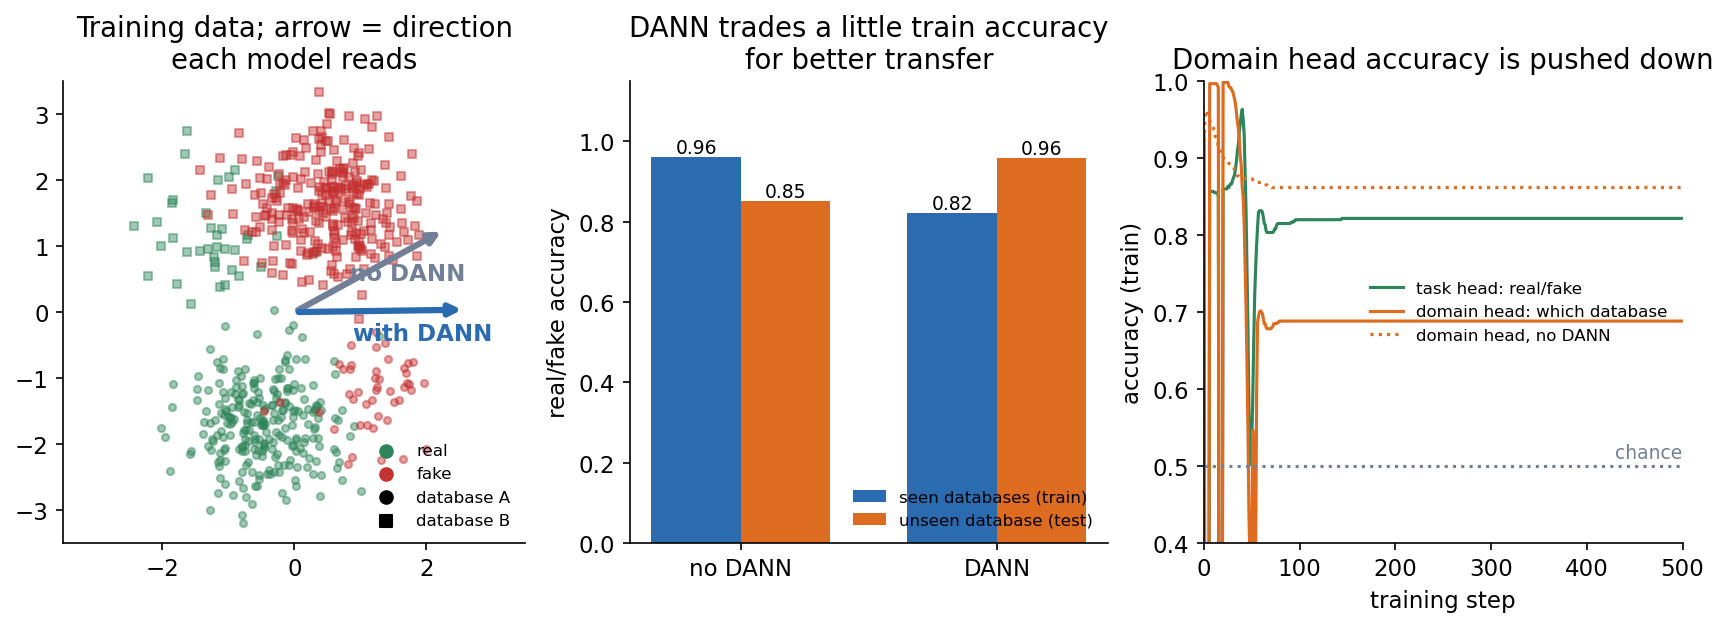
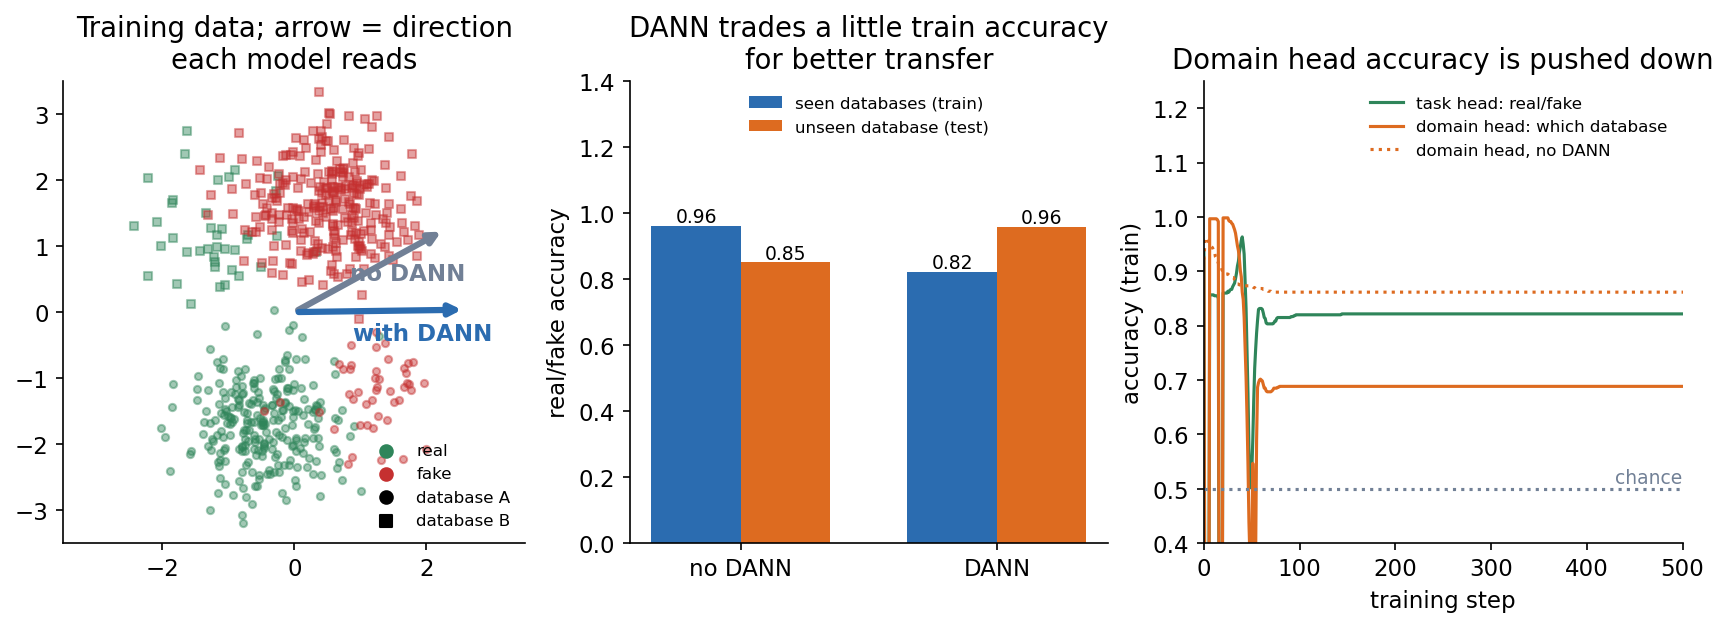
add dann post

diff --git a/blogs/dann_figures.py b/blogs/dann_figures.py
@@ -118,16 +118,16 @@ ax.bar(xs - wd_ / 2, [h0[-1, 0], h1[-1, 0]], wd_, color=BLUE, label="seen databa
 ax.bar(xs + wd_ / 2, [t0, t1], wd_, color=ORANGE, label="unseen database (test)")
 for x_, v_ in zip(np.r_[xs - wd_ / 2, xs + wd_ / 2], [h0[-1, 0], h1[-1, 0], t0, t1]):
     ax.text(x_, v_ + .01, f"{v_:.2f}", ha="center", fontsize=9)
-ax.set(xticks=xs, xticklabels=["no DANN", "DANN"], ylim=(0, 1.15), ylabel="real/fake accuracy", title="DANN trades a little train accuracy\nfor better transfer")
-ax.legend(frameon=False, fontsize=8, loc="lower right")
+ax.set(xticks=xs, xticklabels=["no DANN", "DANN"], ylim=(0, 1.4), ylabel="real/fake accuracy", title="DANN trades a little train accuracy\nfor better transfer")
+ax.legend(frameon=False, fontsize=8, loc="upper center")
 
 ax = axs[2]
 ax.plot(h1[:, 0], c=GREEN, label="task head: real/fake")
 ax.plot(h1[:, 1], c=ORANGE, label="domain head: which database")
 ax.plot(h0[:, 1], c=ORANGE, ls=":", label="domain head, no DANN")
 ax.axhline(.5, c=GRAY, ls=":"); ax.text(500, .51, "chance", ha="right", color=GRAY, fontsize=9)
-ax.set(xlabel="training step", ylabel="accuracy (train)", title="Domain head accuracy is pushed down", ylim=(.4, 1.0), xlim=(0, 500))
-ax.legend(frameon=False, fontsize=8, loc="center right")
+ax.set(xlabel="training step", ylabel="accuracy (train)", title="Domain head accuracy is pushed down", ylim=(.4, 1.25), xlim=(0, 500))
+ax.legend(frameon=False, fontsize=8, loc="upper right")
 fig.savefig(f"{OUT}/03-toy.png", dpi=150, bbox_inches="tight")
 print("no DANN: w", w0.round(2), "train/dom/test", h0[-1].round(2), round(t0, 2))
 print("DANN   : w", w1.round(2), "train/dom/test", h1[-1].round(2), round(t1, 2))

diff --git a/_posts/2026-10-09-domain-adversarial-neural-network.md b/_posts/2026-10-09-domain-adversarial-neural-network.md
@@ -3,6 +3,7 @@ title: "Domain Adversarial Neural Network (DANN), Explained Simply"
 description: "A simple, visual explanation of the Domain Adversarial Neural Network (DANN): the gradient reversal layer, the loss equations, a toy experiment, and how it is used in Nkululeko."
 excerpt: "How to stop a model from learning shortcuts like 'this recording style means fake'. A short visual tour of DANN and the gradient reversal layer."
 date: 2026-10-09 00:00:00 +0900
+mathjax: true
 ---
 
 Imagine a deepfake detector trained on two databases. Database A has mostly real speech and database B has mostly fake speech. The model may quietly learn: *"this microphone and recording style means real, that one means fake."* On a new database the shortcut breaks, and the detector fails. The same problem appears for emotion recognition across corpora or languages.
@@ -17,7 +18,7 @@ I recently saw this added to [Nkululeko in PR #465](https://github.com/felixbur/
 
 <img src="{{ '/images/dann/01-architecture.png' | relative_url }}" alt="DANN architecture with a task head and a domain head behind a gradient reversal layer">
 
-- **Shared model (blue):** turns the audio into a feature vector `h`. This is your normal model (MLP, CNN, AASIST, ...).
+- **Shared model (blue):** turns the audio into a feature vector $$h$$. This is your normal model (MLP, CNN, AASIST, ...).
 - **Task head (green):** predicts what you care about, for example real vs. fake.
 - **Domain head (orange):** a small extra classifier that predicts the *nuisance* label, for example which database or language the audio came from.
 - **GRL (red):** the gradient reversal layer, the one trick that makes it all work. It sits between the features and the domain head.
@@ -32,8 +33,8 @@ Normally, a head that predicts domains would push the features to *contain* doma
 
 | Pass | What the GRL does | Equation |
 |---|---|---|
-| **Forward** | Nothing. It passes the features through. | `GRL(h) = h` |
-| **Backward** | Flips the sign of the gradient and scales it. | `∂GRL/∂h = −λ` |
+| **Forward** | Nothing. It passes the features through. | $$\mathrm{GRL}(h) = h$$ |
+| **Backward** | Flips the sign of the gradient and scales it. | $$\dfrac{\partial\,\mathrm{GRL}}{\partial h} = -\lambda$$ |
 
 So the domain head still learns normally to guess the domain from `h`. But the gradient that travels *back into the shared model* is reversed. The shared model is therefore told: *"change your features so that the domain head becomes worse."* It is a two-player game: the domain head tries to detect the domain, the feature extractor tries to hide it.
 
@@ -55,30 +56,29 @@ class _GradientReversalFunction(torch.autograd.Function):
 
 The total loss that the model minimizes is:
 
-```
-L_total = L_task + w * Σ_k L_dom,k
-```
+$$
+L_{\text{total}} = L_{\text{task}} + w \sum_{k} L_{\text{dom},k}
+$$
 
 | Symbol | Meaning |
 |---|---|
-| `L_task` | The usual loss of the main task (cross-entropy for real/fake). |
-| `L_dom,k` | Cross-entropy of the domain head for the nuisance column `k` (for example `source_db`, `language`). |
-| `Σ_k` | You may use several nuisance columns at once. One head is made per column, and the losses are summed. |
-| `w` | `dann_weight`: how much the domain loss counts in the total. |
+| $$L_{\text{task}}$$ | The usual loss of the main task (cross-entropy for real/fake). |
+| $$L_{\text{dom},k}$$ | Cross-entropy of the domain head for the nuisance column `k` (for example `source_db`, `language`). |
+| $$\sum_k$$ | You may use several nuisance columns at once. One head is made per column, and the losses are summed. |
+| $$w$$ | `dann_weight`: how much the domain loss counts in the total. |
 
-For the feature extractor parameters `θ_f`, the update is:
+For the feature extractor parameters $$\theta_f$$, the update is:
 
-```
-θ_f  ←  θ_f − η * ( ∂L_task/∂θ_f  −  λ * ∂L_dom/∂θ_f )
-                     └─ be good at the task ─┘  └─ be BAD for the domain head ─┘
-```
+$$
+\theta_f \leftarrow \theta_f - \eta \Big( \underbrace{\frac{\partial L_{\text{task}}}{\partial \theta_f}}_{\text{be good at the task}} - \lambda \underbrace{\frac{\partial L_{\text{dom}}}{\partial \theta_f}}_{\text{be BAD for the domain head}} \Big)
+$$
 
 | Symbol | Meaning |
 |---|---|
-| `η` | Learning rate. |
-| `∂L_task/∂θ_f` | Normal gradient: make features useful for the task. |
-| `−λ · ∂L_dom/∂θ_f` | **Reversed** gradient from the GRL: make features *unhelpful* for the domain head. This is the `−λ` from the table above. |
-| `λ` | `dann_lambda`: the strength of the reversal. Too small gives no effect, too large can make training unstable. |
+| $$\eta$$ | Learning rate. |
+| $$\partial L_{\text{task}} / \partial \theta_f$$ | Normal gradient: make features useful for the task. |
+| $$-\lambda \, \partial L_{\text{dom}} / \partial \theta_f$$ | **Reversed** gradient from the GRL: make features *unhelpful* for the domain head. This is the $$-\lambda$$ from the table above. |
+| $$\lambda$$ | `dann_lambda`: the strength of the reversal. Too small gives no effect, too large can make training unstable. |
 
 The domain head itself uses the normal (non-reversed) gradient of `L_dom`, so it keeps trying its best. That is what makes the game adversarial.
 
@@ -121,7 +121,7 @@ A few practical notes from the PR:
 - **It needs a domain label** for each training sample, and at least two different values (the code raises an error otherwise).
 - **It does not guarantee invariance.** A strong enough domain head can still find domain traces, as the 0.69 in the toy example shows.
 - **It can hurt if the domain really carries signal.** If, say, language truly correlates with the label in your application, removing it will cost accuracy.
-- **Tuning matters.** Start with `λ = 1`, watch the task and domain losses, and compare against the `dann_reverse = False` ablation.
+- **Tuning matters.** Start with $$\lambda = 1$$, watch the task and domain losses, and compare against the `dann_reverse = False` ablation.
 
 ## Summary
 

diff --git a/_posts/2026-10-08-goodness-of-pronunciation.md b/_posts/2026-10-08-goodness-of-pronunciation.md
@@ -3,6 +3,7 @@ title: "Goodness of Pronunciation (GOP), Explained Simply"
 description: "A simple, visual explanation of Goodness of Pronunciation (GOP): how a speech model turns phone posteriors into a pronunciation score, with annotated equations and figures."
 excerpt: "How can a computer tell whether you pronounced a sound correctly? A short visual tour of Goodness of Pronunciation (GOP)."
 date: 2026-10-08 00:00:00 +0900
+mathjax: true
 ---
 
 How can a computer tell whether you said the word *cat* correctly, or whether your "a" sounded more like "e"? **Goodness of Pronunciation (GOP)** is the classic answer. It gives every phone (a single speech sound) a score: *how confident is the model that this sound is the one you were supposed to say?* GOP was introduced by Witt and Young (2000) and is still the base of many pronunciation-training systems today.
@@ -20,7 +21,7 @@ No hand-made rules about "what a wrong /æ/ looks like" are needed. We only ask 
 
 <img src="{{ '/images/gop/01-posteriors.png' | relative_url }}" alt="Phone posterior heatmaps for a correct and an incorrect pronunciation">
 
-Each column is one time frame and each row is a candidate phone. Darker blue means higher probability, `P(q | frame)`. The dashed lines are the phone boundaries from forced alignment.
+Each column is one time frame and each row is a candidate phone. Darker blue means higher probability, $$P(q \mid \text{frame})$$. The dashed lines are the phone boundaries from forced alignment.
 
 - **A (left):** the speaker said /k æ t/. In each segment the dark cells sit on the row of the target phone.
 - **B (right):** the speaker said /k e t/. In the middle segment the dark cells moved to the row **e**, while the target row **æ** is almost empty. This is the signal that something went wrong.
@@ -35,18 +36,18 @@ This is the simple, widely used **posterior-based** form (as in neural-network G
 
 In plain text:
 
-```
-GOP(p) = (1 / T_p) * sum over t = s..e of  log P(p | o_t)
-```
+$$
+\mathrm{GOP}(p) = \frac{1}{T_p} \sum_{t=s}^{e} \log P(p \mid o_t)
+$$
 
 | Symbol | Meaning |
 |---|---|
-| `p` | The **target phone**, what the speaker *should* say (here /æ/). |
-| `s`, `e` | First and last frame of phone `p`, from forced alignment. |
-| `T_p` | Number of frames in the phone, `e − s + 1`. Dividing by it is an **average**, so a long phone is not punished just for being long. |
-| `o_t` | The audio (acoustic features) at frame `t`. |
-| `P(p \| o_t)` | The model's **posterior**: probability that frame `t` is phone `p`. Between 0 and 1. |
-| `log` | Turns probabilities into scores. `log 1 = 0` (perfect), and the score drops quickly as the probability goes toward 0. |
+| $$p$$ | The **target phone**, what the speaker *should* say (here /æ/). |
+| $$s$$, $$e$$ | First and last frame of phone `p`, from forced alignment. |
+| $$T_p$$ | Number of frames in the phone, $$e - s + 1$$. Dividing by it is an **average**, so a long phone is not punished just for being long. |
+| $$o_t$$ | The audio (acoustic features) at frame `t`. |
+| $$P(p \mid o_t)$$ | The model's **posterior**: probability that frame `t` is phone `p`. Between 0 and 1. |
+| $$\log$$ | Turns probabilities into scores. $$\log 1 = 0$$ (perfect), and the score drops quickly as the probability goes toward 0. |
 
 How to read the result:
 
@@ -56,13 +57,12 @@ How to read the result:
 
 ### Worked example
 
-Suppose /æ/ has 3 frames and the model gives `P(æ | o_t) = 0.9, 0.8, 0.1`. Then
+Suppose /æ/ has 3 frames and the model gives $$P(\text{æ} \mid o_t) = 0.9,\ 0.8,\ 0.1$$. Then
 
-```
-GOP = (log 0.9 + log 0.8 + log 0.1) / 3
-    = (−0.105 − 0.223 − 2.303) / 3
-    ≈ −0.88
-```
+$$
+\mathrm{GOP} = \frac{\log 0.9 + \log 0.8 + \log 0.1}{3}
+= \frac{-0.105 - 0.223 - 2.303}{3} \approx -0.88
+$$
 
 One bad frame pulled the average down a lot. This is a feature of the log: very unlikely frames are punished heavily.
 
@@ -80,12 +80,12 @@ The threshold is not universal. It is usually tuned per phone on data labelled b
 
 A low GOP can also happen when the audio is noisy, even if the phone is right. A popular variant, the **Log Posterior Ratio (LPR)**, asks a sharper question: *is the target phone better than the best alternative?*
 
-```
-LPR(p) = GOP(p) − max over q ≠ p of GOP(q)
-```
+$$
+\mathrm{LPR}(p) = \mathrm{GOP}(p) - \max_{q \neq p} \mathrm{GOP}(q)
+$$
 
-- `GOP(p)`: the score of the target phone.
-- `max GOP(q)`: the score of the strongest competing phone (here, `e`).
+- $$\mathrm{GOP}(p)$$: the score of the target phone.
+- $$\max_{q \neq p} \mathrm{GOP}(q)$$: the score of the strongest competing phone (here, `e`).
 - **Positive** LPR: the target wins. **Negative** LPR: another phone wins, so the speaker likely said that other phone.
 
 In the example above, LPR for /æ/ is about +3.0 for the correct speaker and about **−1.8** for the speaker who said /e/. Noise lowers all the scores together, so LPR is less affected by it. It also tells you *what* the speaker probably said instead.

diff --git a/_posts/2026-10-06-bootstrap-confidence-interval.md b/_posts/2026-10-06-bootstrap-confidence-interval.md
@@ -3,6 +3,7 @@ title: "Bootstrap Confidence Interval, Explained with Pictures"
 description: "A simple, visual explanation of the bootstrap confidence interval, what it means when the interval includes or excludes zero, and why paired data needs a paired bootstrap."
 excerpt: "A simple, visual explanation of the bootstrap confidence interval, what it means when it includes or excludes zero, and why pairing matters."
 date: 2026-10-06 00:00:00 +0900
+mathjax: true
 ---
 
 You have one sample and one mean. How sure are you about that mean? A **confidence interval (CI)** answers this question. The **bootstrap** is a way to get a CI without assuming that your data follow a normal distribution. All you need is a computer that can shuffle numbers.
@@ -21,7 +22,7 @@ In plain words: *"If I could repeat my experiment many times, where would most o
 
 ## 2. Does the interval include zero?
 
-This matters most when you compare two conditions. Take the difference (for example, *after − before*) and bootstrap the **mean difference**. Zero means "no difference", so we check where zero sits relative to the interval.
+This matters most when you compare two conditions. Take the difference (for example, $$\text{after} - \text{before}$$) and bootstrap the **mean difference**. Zero means "no difference", so we check where zero sits relative to the interval.
 
 <img src="{{ '/images/bootstrap/02-include-exclude-zero.png' | relative_url }}" alt="CI including zero versus CI excluding zero">
 
@@ -33,7 +34,7 @@ Two cautions:
 - *Excluding zero* only means the effect is probably not exactly zero. It does not mean the effect is big. Look at the **size of the interval** too (B ranges from about 0.6 to 1.4, and whether that matters depends on your problem).
 - *Including zero* does not prove "no difference". It means your data are not enough to tell. With more data the interval usually gets narrower.
 
-A 95% CI that excludes 0 corresponds to p < 0.05 in a two-sided test. This is the same decision rule as in a classic significance test, but the CI also shows you **how large** the effect might be.
+A 95% CI that excludes 0 corresponds to $$p < 0.05$$ in a two-sided test. This is the same decision rule as in a classic significance test, but the CI also shows you **how large** the effect might be.
 
 ## 3. Paired vs. unpaired: why it matters
 
@@ -43,7 +44,7 @@ In an earlier post (in Indonesian) I wrote about the [paired t-test with LibreOf
 
 **Left:** the same 20 people measured before and after. People differ a lot from each other (scores from 50 to 100), but almost everyone gains a little, so the lines are nearly parallel.
 
-**Middle, paired bootstrap.** Compute `after − before` for each person first, then resample those 20 differences. The person-to-person variation is cancelled out, because each person is compared with themselves. The CI is narrow and **excludes zero**.
+**Middle, paired bootstrap.** Compute $$\text{after} - \text{before}$$ for each person first, then resample those 20 differences. The person-to-person variation is cancelled out, because each person is compared with themselves. The CI is narrow and **excludes zero**.
 
 **Right, unpaired bootstrap.** Resample the "before" group and the "after" group independently, as if they were different people. Now the large differences between people leak into the result as noise. The CI becomes about nine times wider and **includes zero**.
 
